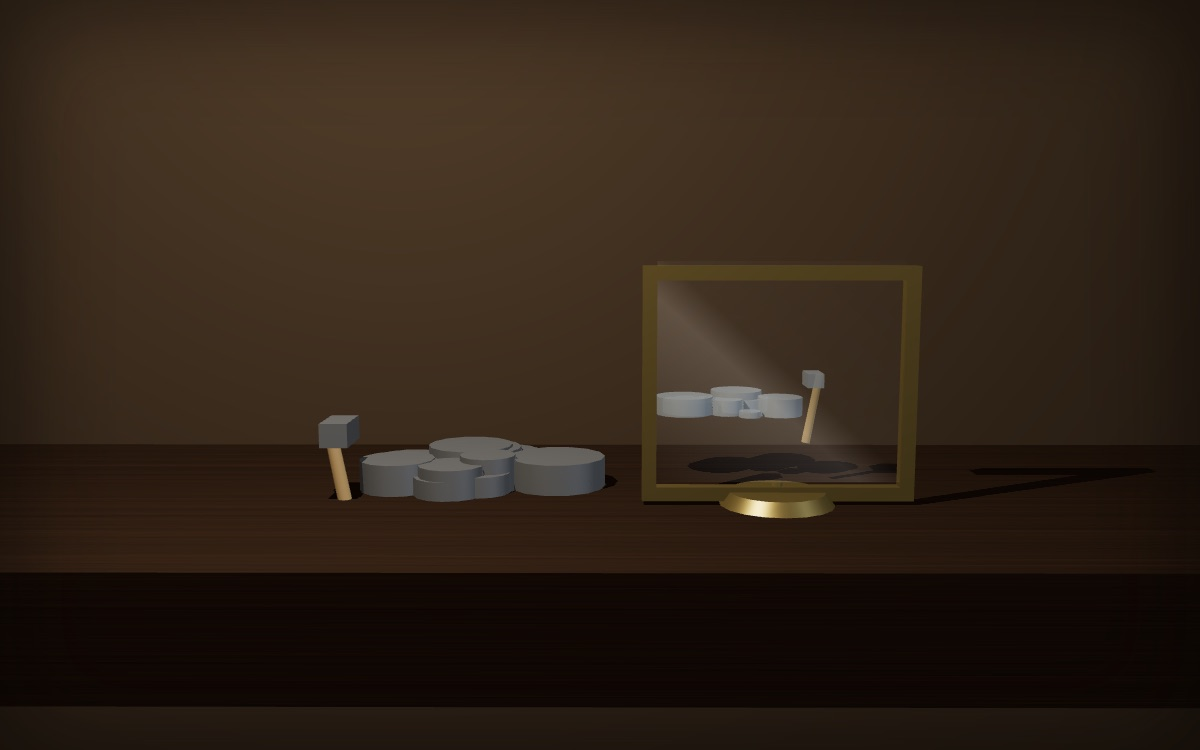
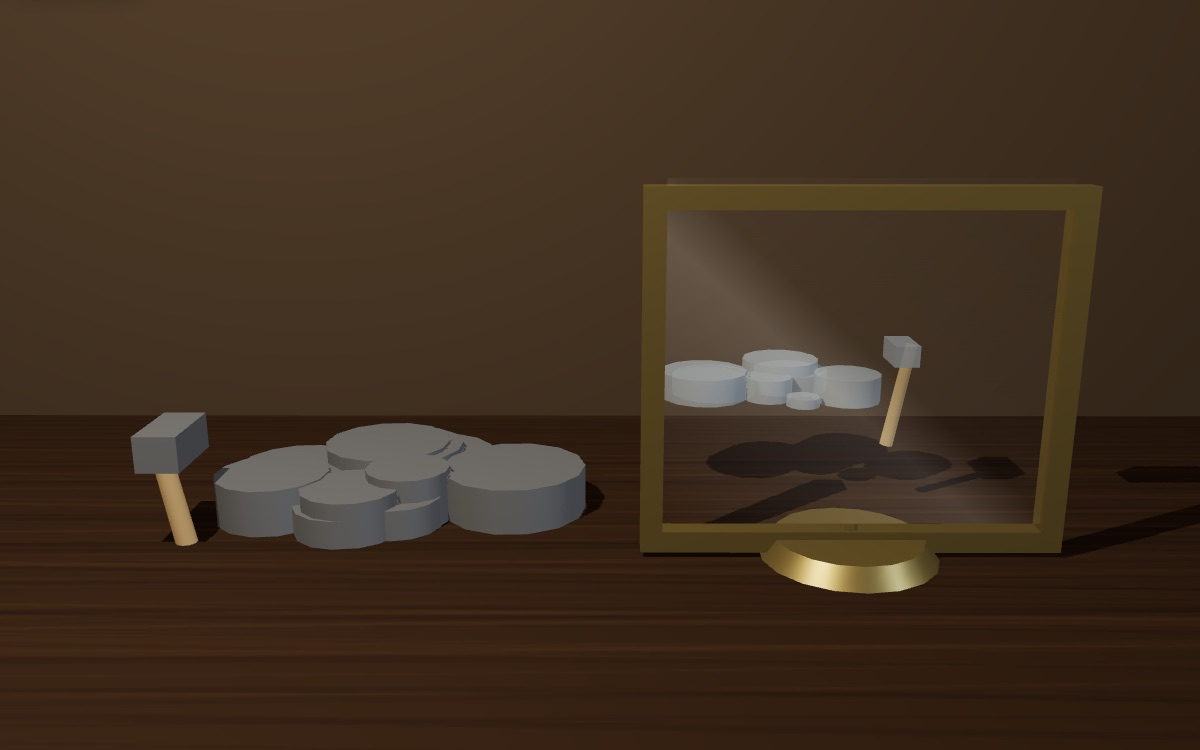
Glossaire : scène de composition-organique éclaircie et recadrée

diff --git a/glossaire/mondes/composition-organique/monde.js b/glossaire/mondes/composition-organique/monde.js
@@ -26,7 +26,7 @@ window.LM_MONDE = function (canvas) {
   renderer.setPixelRatio(Math.min(window.devicePixelRatio || 1, 1.6));
   renderer.setClearColor(0x0a0806, 1);
   if (THREE.sRGBEncoding) renderer.outputEncoding = THREE.sRGBEncoding;
-  if (THREE.ACESFilmicToneMapping) { renderer.toneMapping = THREE.ACESFilmicToneMapping; renderer.toneMappingExposure = 1.02; }
+  if (THREE.ACESFilmicToneMapping) { renderer.toneMapping = THREE.ACESFilmicToneMapping; renderer.toneMappingExposure = 1.10; }
   renderer.shadowMap.enabled = true; renderer.shadowMap.type = THREE.PCFSoftShadowMap;
 
   var scene = new THREE.Scene(); scene.fog = new THREE.Fog(0x0a0806, 1.6, 4.0);
@@ -50,13 +50,18 @@ window.LM_MONDE = function (canvas) {
       g.stroke();
     }
   });
-  var comptoir = new THREE.Mesh(new THREE.BoxGeometry(1.9, 0.12, 0.58),
-    std({ map: boisTex, color: 0x9c8768, roughness: 0.86 }));
-  comptoir.position.set(0, -0.06, -0.02); comptoir.receiveShadow = true; scene.add(comptoir);
+  /* Le plan de travail VIENT JUSQU'À NOUS : arrêté à 0,27 devant le tas,
+     il montrait sa tranche puis du noir, et le bas de l'image était une
+     bande sombre vide (13/255 mesuré). Prolongé sous la caméra, c'est le
+     bois qui remplit le pied du cadre. */
+  boisTex.wrapS = boisTex.wrapT = THREE.RepeatWrapping; boisTex.repeat.set(1, 1.6);
+  var comptoir = new THREE.Mesh(new THREE.BoxGeometry(1.9, 0.12, 1.9),
+    std({ map: boisTex, color: 0xb59c78, roughness: 0.86 }));
+  comptoir.position.set(0, -0.06, 0.64); comptoir.receiveShadow = true; scene.add(comptoir);
   var fond = new THREE.Mesh(new THREE.PlaneGeometry(5, 2.4), std({ color: 0x150f0a, roughness: 1 }));
   fond.position.set(0, 0.6, -0.44); scene.add(fond);
 
-  scene.add(new THREE.AmbientLight(0xffe6c2, 0.24));
+  scene.add(new THREE.AmbientLight(0xffe6c2, 0.30));
   var lampe = new THREE.PointLight(0xffd9a8, 1.30, 2.8, 2);
   lampe.position.set(-0.30, 0.72, 0.34); lampe.castShadow = true;
   lampe.shadow.mapSize.set(1024, 1024); lampe.shadow.bias = -0.0016; scene.add(lampe);
@@ -197,9 +202,13 @@ window.LM_MONDE = function (canvas) {
     /* ── LE CADRAGE ───────────────────────────────────────────────────
        La chose de −0,40 à −0,06, le cadre de 0,04 à 0,39 : VÉRIFIÉ PAR
        PROJECTION à la position portrait, qui est la plus étroite. */
-    var dz = lerp(1.26, 1.18, ss(0, 1, Math.min(1, G / 2.5)));
-    var camA = V3(-0.005, lerp(0.10, 0.135, ss(1.5, 4.5, G)), ZB + 0.04);
-    camera.position.set(camA.x + 0.008 * Math.sin(T * 0.21), camA.y + 0.145 + 0.006 * Math.sin(T * 0.27), camA.z + dz);
+    /* RAPPROCHÉ (oct. 2026) : à 1,2 de distance le tas et le miroir ne
+       tenaient que la moitié de la largeur, au milieu d'un grand mur
+       brun. À 0,9 et un peu plus haut, ils prennent les quatre
+       cinquièmes du cadre et le regard plonge sur le bois. */
+    var dz = lerp(0.78, 0.74, ss(0, 1, Math.min(1, G / 2.5)));
+    var camA = V3(0.012, lerp(0.10, 0.12, ss(1.5, 4.5, G)), ZB + 0.04);
+    camera.position.set(camA.x + 0.006 * Math.sin(T * 0.21), camA.y + 0.19 + 0.005 * Math.sin(T * 0.27), camA.z + dz);
     camera.lookAt(camA);
     render();
   }
